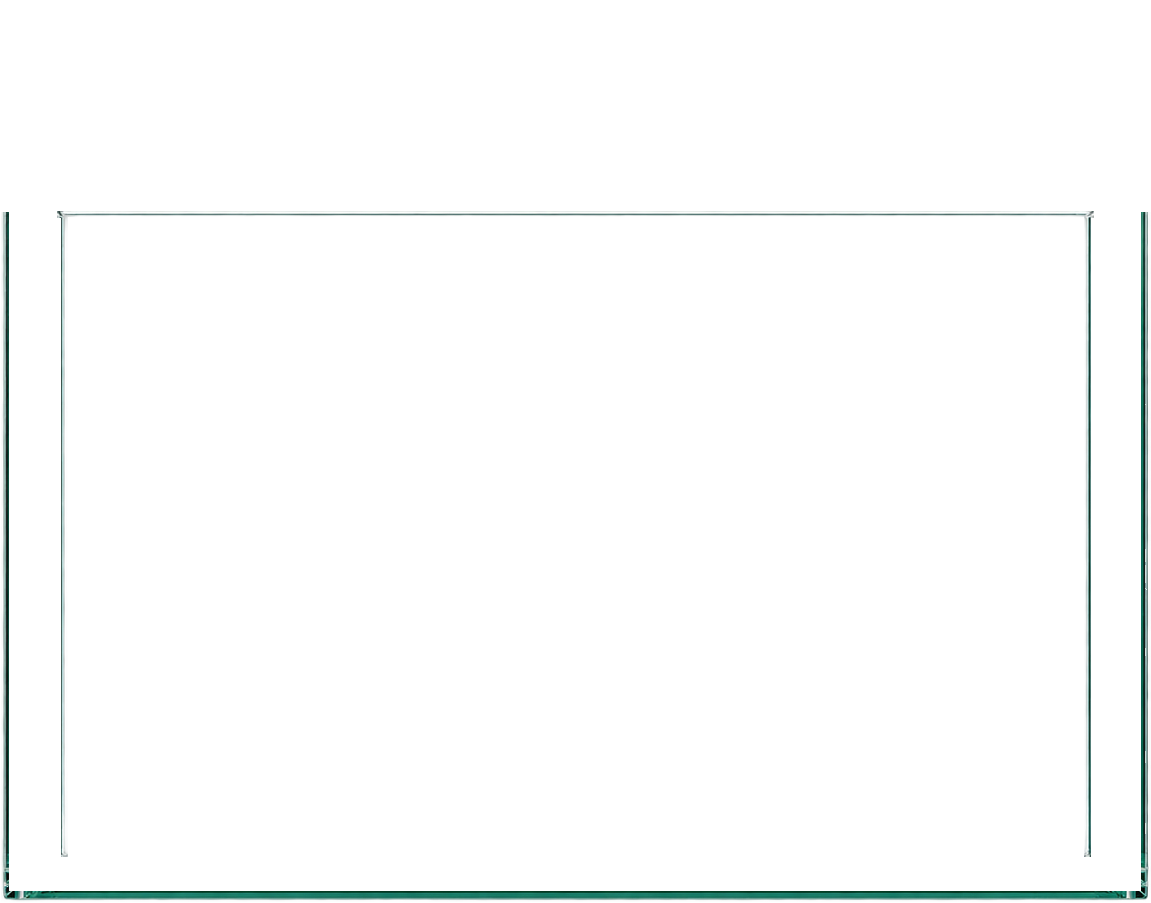
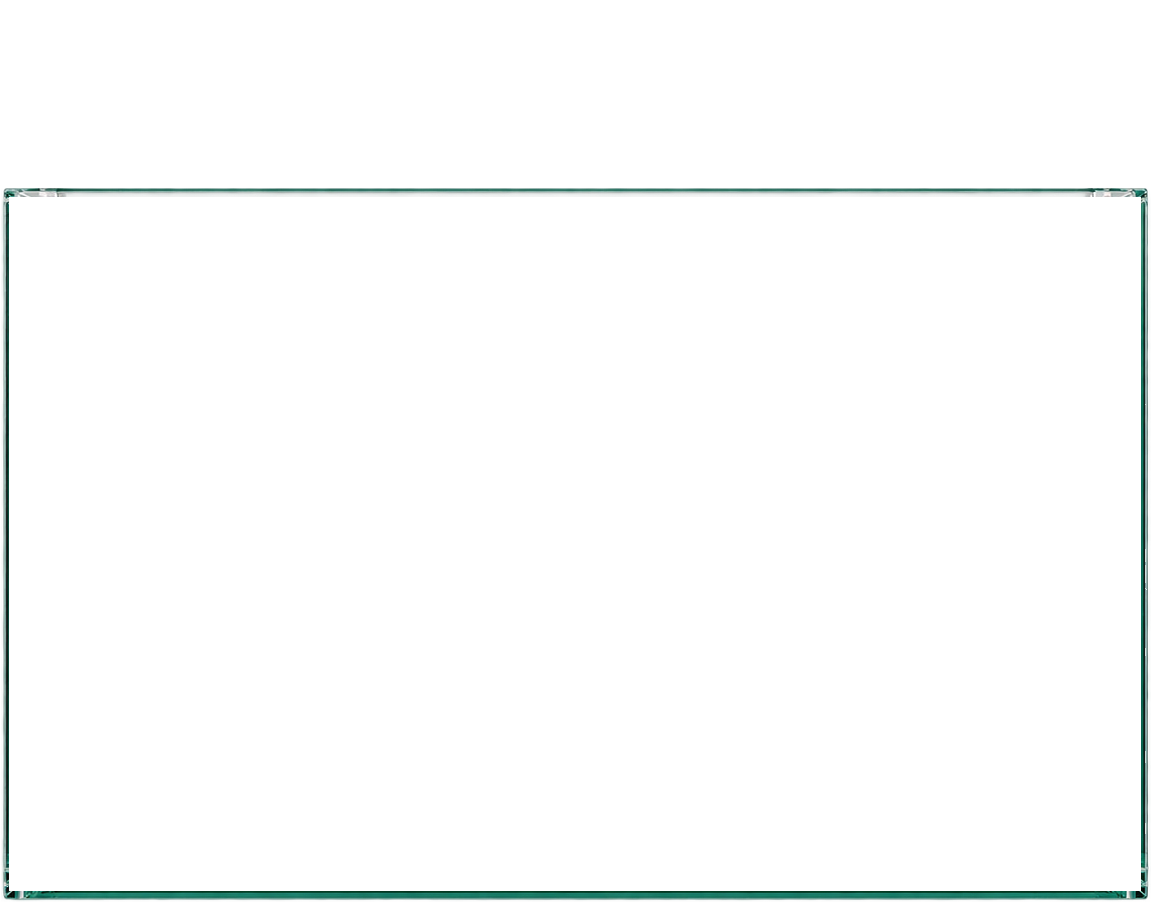
Fill the aquarium's full front pane
Use the front glass bounds rather than the inset rear pane so the live
scene covers the side projections and floor. Put rear joins below the
scene and keep the front rim above it.

Verify front coverage and rear-seam placement with regressions observed
failing before the fix and passing afterward.

Changed region(s): [[0.0, 0.186, 1.0, 0.9302]]

diff --git a/web/machines.test.ts b/web/machines.test.ts
@@ -102,17 +102,18 @@ describe("machine silhouettes", () => {
     // behind it. The pad must land on opaque art; per the art audit
     // every hole keeps >= 44px to the nearest see-through pixel. This
     // test can't measure that, so it pins the weaker invariant: the
-    // hole stays pad + 8 slack inside the viewBox.
+    // hole stays pad + 8 slack inside the viewBox when padding is used.
     for (const m of MACHINES) {
       const hole = m.hole;
       if (!hole) continue;
       const pad = m.backplatePad ?? SCREENBACK_HOLE_PAD;
-      expect(hole.x, m.id).toBeGreaterThanOrEqual(pad + 8);
-      expect(hole.y, m.id).toBeGreaterThanOrEqual(pad + 8);
+      const clearance = pad > 0 ? pad + 8 : 0;
+      expect(hole.x, m.id).toBeGreaterThanOrEqual(clearance);
+      expect(hole.y, m.id).toBeGreaterThanOrEqual(clearance);
       expect(m.vbW - (hole.x + hole.w), m.id)
-        .toBeGreaterThanOrEqual(pad + 8);
+        .toBeGreaterThanOrEqual(clearance);
       expect(m.vbH - (hole.y + hole.h), m.id)
-        .toBeGreaterThanOrEqual(pad + 8);
+        .toBeGreaterThanOrEqual(clearance);
     }
   });
 

diff --git a/web/machines.ts b/web/machines.ts
@@ -373,7 +373,8 @@ const imacg4: Machine = {
 };
 
 const AQUARIUM_BODY: ShapeRect = { x: 0, y: 0, w: 1151, h: 903, r: 0 };
-const AQUARIUM_GLASS: ShapeRect = { x: 68, y: 217, w: 1016, h: 635, r: 0 };
+// Fill the front face, including the rear panels projected inside it.
+const AQUARIUM_GLASS: ShapeRect = { x: 8, y: 189, w: 1136, h: 710, r: 0 };
 
 // Registered layers share their opening with the tank and native mask.
 // Thin glass needs no black pad outside the viewing rectangle.
